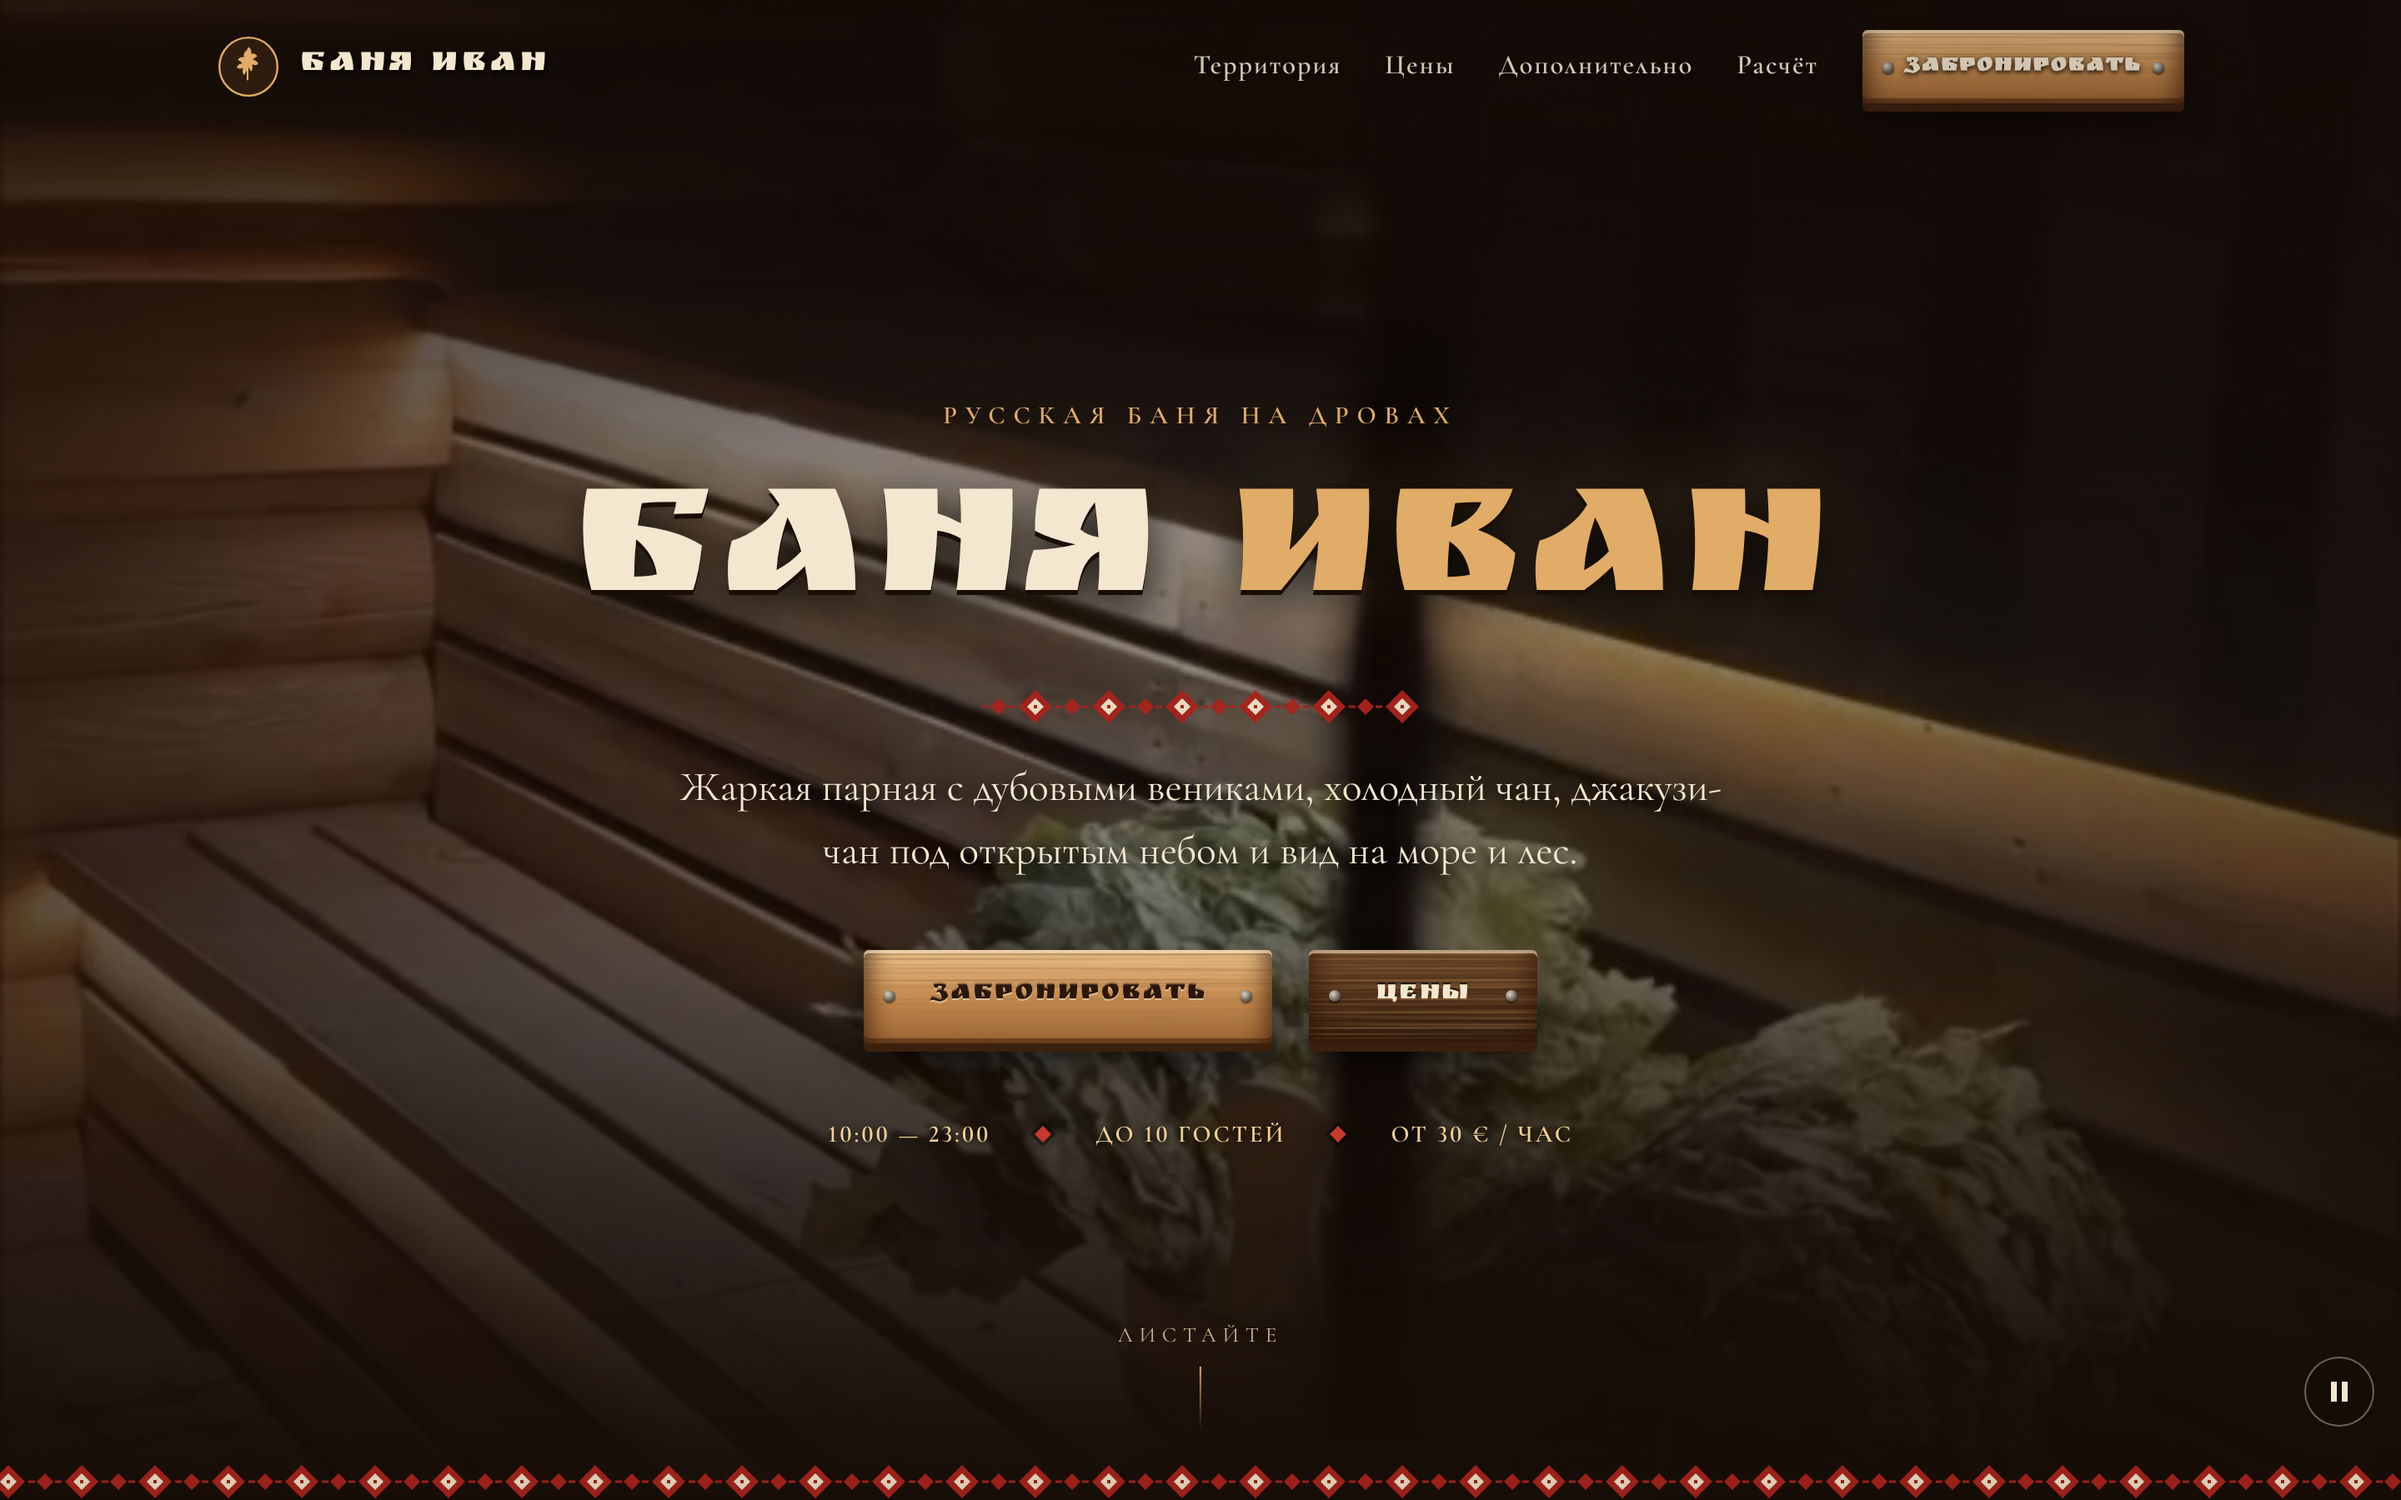
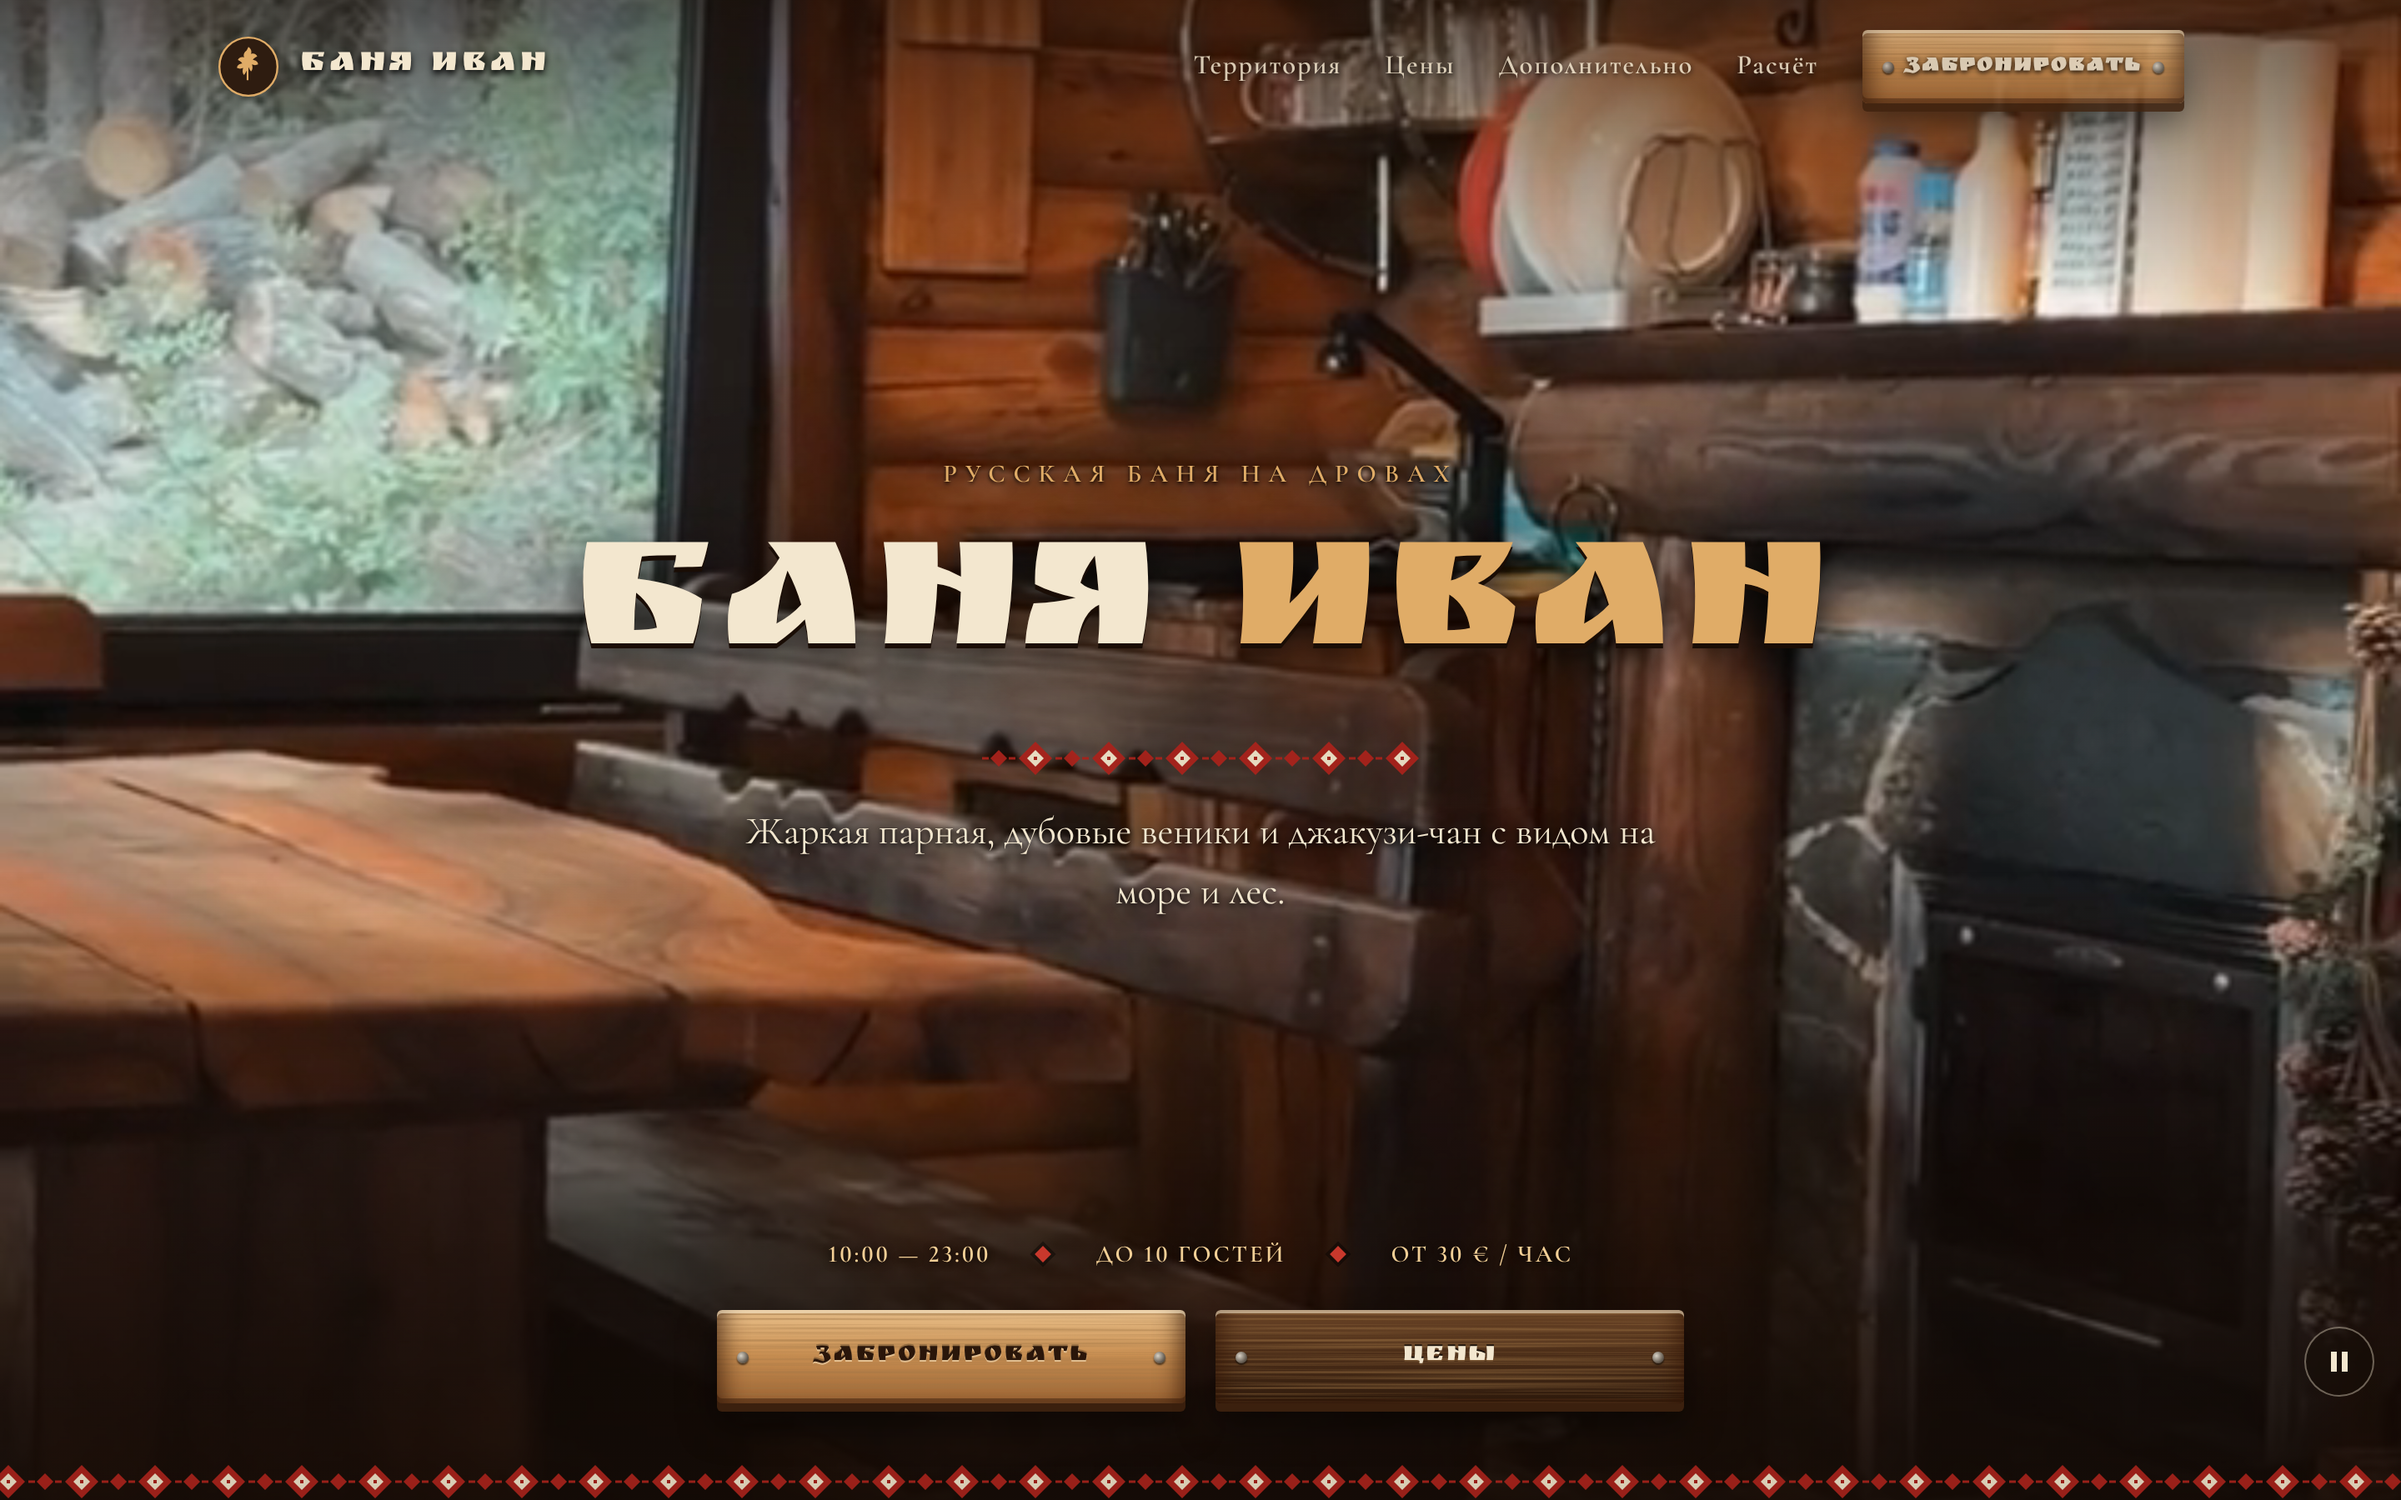
Баня Иван: чистый hero с кнопками внизу, фон из реалистичных брёвен
- hero: убрано сплошное затемнение, видео видно; кнопки в ряд внизу экрана
- фон: фототекстура сруба (Poly Haven beam_wall_01, CC0), перекрашена под морёную сосну

Claude-Session: https://claude.ai/code/session_01TmLsjznAwSWef89Pa8qZjW

diff --git a/banya-ivan/index.html b/banya-ivan/index.html
@@ -38,6 +38,10 @@
 *{box-sizing:border-box}
 html{scroll-behavior:smooth;-webkit-text-size-adjust:100%}
 @media (prefers-reduced-motion:reduce){html{scroll-behavior:auto}}
+@media (max-width:640px){body{background-size:auto,560px auto}}
+/* мягкий тёплый свет от печи по краям секций */
+.section::before{content:"";position:absolute;inset:0;z-index:-1;pointer-events:none;background:radial-gradient(ellipse 70% 55% at 50% 45%,rgba(255,160,80,.07),transparent 70%),linear-gradient(90deg,rgba(0,0,0,.35),transparent 18%,transparent 82%,rgba(0,0,0,.35))}
+.section{isolation:isolate}
 body{
   margin:0;
   font-family:"Cormorant Garamond",Georgia,serif;
@@ -45,18 +49,12 @@ body{
   line-height:1.55;
   color:var(--ink);
   background-color:var(--wood-1);
-  /* сруб: горизонтальные брёвна */
+  /* сруб: фототекстура beam_wall_01 (Poly Haven, CC0), перекрашена под морёную сосну */
   background-image:
-    var(--grain),
-    repeating-linear-gradient(180deg,
-      rgba(0,0,0,.55) 0 3px,
-      rgba(255,200,140,.05) 3px 6px,
-      rgba(0,0,0,0) 6px 60px,
-      rgba(0,0,0,.18) 60px 132px,
-      rgba(0,0,0,.35) 132px 140px),
-    linear-gradient(180deg,var(--wood-1),var(--wood-2) 40%,var(--wood-1));
-  background-size:700px 220px,100% 140px,100% 100%;
-  background-attachment:scroll;
+    linear-gradient(180deg,rgba(14,8,4,.5),rgba(14,8,4,.5)),
+    url("assets/logs.jpg");
+  background-size:auto,800px auto;
+  background-repeat:repeat;
   overflow-x:hidden;
   font-variant-numeric:lining-nums;
 }
@@ -126,29 +124,31 @@ h1,h2,h3{margin:0;line-height:1.1}
 @media (max-width:860px){.nav a:not(.brus){display:none}.topbar .brus{padding:10px 22px;min-height:42px;font-size:.85rem}}
 
 /* ---------- hero ---------- */
-.hero{position:relative;min-height:100svh;display:grid;place-items:center;overflow:hidden;isolation:isolate}
+.hero{position:relative;min-height:100svh;display:flex;flex-direction:column;overflow:hidden;isolation:isolate}
 .hero video,.hero .poster{position:absolute;inset:0;width:100%;height:100%;object-fit:cover;z-index:-3}
 .hero::before{content:"";position:absolute;inset:0;z-index:-2;
   background:
-    radial-gradient(ellipse 70% 60% at 50% 50%,rgba(20,11,6,.25),rgba(20,11,6,.78) 100%),
-    linear-gradient(180deg,rgba(20,11,6,.55) 0%,rgba(20,11,6,.1) 30%,rgba(20,11,6,.2) 65%,var(--wood-1) 100%)}
+    radial-gradient(ellipse 55% 28% at 50% 44%,rgba(20,11,6,.45),transparent 75%),
+    linear-gradient(180deg,rgba(20,11,6,.6) 0%,rgba(20,11,6,0) 20%,rgba(20,11,6,0) 58%,rgba(20,11,6,.6) 84%,rgba(20,11,6,.92) 100%)}
 /* резные наличники по бокам */
 .hero::after{content:"";position:absolute;inset:auto 0 0 0;height:22px;z-index:-1;background:var(--ornament) center/44px 22px repeat-x;opacity:.9}
-.hero-inner{text-align:center;padding:120px 16px 90px;max-width:900px}
+.hero-inner{flex:1;display:flex;flex-direction:column;justify-content:center;align-items:center;text-align:center;padding:110px 16px 24px;max-width:900px;margin:0 auto}
+.hero-inner .ornament.short{margin-top:14px}
+.hero-bottom{position:relative;padding:0 16px 58px;display:flex;flex-direction:column;align-items:center;gap:22px}
 .hero h1{font-family:"Ruslan Display",serif;font-weight:400;font-size:clamp(3.2rem,11vw,7.6rem);line-height:.95;color:var(--ink);
-  text-shadow:0 3px 0 #1a0d05,0 8px 30px rgba(0,0,0,.8),0 0 60px rgba(224,172,103,.25);margin:18px 0 8px}
+  text-shadow:0 3px 0 #1a0d05,0 6px 24px rgba(0,0,0,.75);margin:14px 0 4px}
+.hero .kicker{text-shadow:0 1px 2px #000,0 1px 10px rgba(0,0,0,.95)}
+@media (max-width:640px){.hero::before{background:radial-gradient(ellipse 95% 30% at 50% 50%,rgba(20,11,6,.55),transparent 75%),linear-gradient(180deg,rgba(20,11,6,.6) 0%,rgba(20,11,6,0) 18%,rgba(20,11,6,0) 60%,rgba(20,11,6,.65) 84%,rgba(20,11,6,.92) 100%)}}
 .hero h1 em{font-style:normal;color:var(--honey)}
-.hero .lead{font-size:clamp(1.2rem,2.6vw,1.55rem);max-width:640px;margin:18px auto 0;color:var(--ink);text-shadow:0 2px 8px #000}
-.hero .actions{display:flex;flex-wrap:wrap;justify-content:center;gap:22px;margin-top:40px}
-.hero-facts{display:flex;flex-wrap:wrap;justify-content:center;gap:10px 28px;margin-top:44px;font-weight:600;letter-spacing:.1em;text-transform:uppercase;font-size:.9rem;color:var(--honey-2);text-shadow:0 1px 4px #000}
+.hero .lead{font-size:clamp(1.15rem,2.4vw,1.45rem);max-width:560px;margin:16px auto 0;color:var(--ink);text-shadow:0 1px 3px #000,0 2px 14px rgba(0,0,0,.85)}
+.hero .actions{display:grid;grid-template-columns:1fr 1fr;gap:18px;width:min(580px,100%)}
+.hero .actions .brus{width:100%;padding-inline:26px}
+.hero-facts{display:flex;flex-wrap:wrap;justify-content:center;gap:10px 28px;font-weight:600;letter-spacing:.1em;text-transform:uppercase;font-size:.9rem;color:var(--honey-2);text-shadow:0 1px 4px #000}
 .hero-facts span{display:flex;align-items:center;gap:10px}
 .hero-facts span+span::before{content:"";width:7px;height:7px;background:var(--red-2);transform:rotate(45deg);margin-right:18px;box-shadow:0 0 0 2px rgba(0,0,0,.4)}
-.scroll-cue{position:absolute;bottom:42px;left:50%;translate:-50% 0;color:var(--ink-dim);font-size:.8rem;letter-spacing:.3em;text-transform:uppercase;text-decoration:none;display:flex;flex-direction:column;align-items:center;gap:8px}
-.scroll-cue i{width:1px;height:38px;background:linear-gradient(var(--honey),transparent);animation:cue 2s ease-in-out infinite}
-@keyframes cue{0%,100%{transform:scaleY(.4);transform-origin:top}50%{transform:scaleY(1);transform-origin:top}}
-.video-toggle{position:absolute;right:16px;bottom:44px;width:42px;height:42px;border-radius:50%;border:1px solid rgba(243,231,207,.4);background:rgba(20,11,6,.5);color:var(--ink);cursor:pointer;display:grid;place-items:center}
+.video-toggle{position:absolute;right:16px;bottom:62px;width:42px;height:42px;border-radius:50%;border:1px solid rgba(243,231,207,.4);background:rgba(20,11,6,.5);color:var(--ink);cursor:pointer;display:grid;place-items:center}
 .video-toggle:focus-visible{outline:2px solid var(--honey);outline-offset:3px}
-@media (max-width:640px){.scroll-cue{display:none}.hero .brus{width:100%;max-width:340px}.hero-facts{flex-direction:column;gap:8px}.hero-facts span+span::before{display:none}.logo span{font-size:1.1rem}.logo svg{width:32px;height:32px}}
+@media (max-width:640px){.hero .actions{gap:12px}.hero .actions .brus{font-size:.78rem;padding:14px 18px;min-height:54px;letter-spacing:.03em}.hero .actions .brus::before{left:7px}.hero .actions .brus::after{right:7px}.hero-bottom{padding-bottom:46px;gap:18px}.hero-facts{gap:6px 16px;font-size:.8rem}.hero-facts span+span::before{display:none}.video-toggle{bottom:auto;top:80px;width:38px;height:38px}.logo span{font-size:1.1rem}.logo svg{width:32px;height:32px}}
 
 /* ---------- доски-карточки ---------- */
 .plank{
@@ -322,7 +322,7 @@ footer .logo{justify-content:center;margin-bottom:10px}
 /* появление */
 .reveal{opacity:0;transform:translateY(28px);transition:opacity .9s ease,transform .9s cubic-bezier(.2,.7,.2,1)}
 .reveal.in{opacity:1;transform:none}
-@media (prefers-reduced-motion:reduce){.reveal{opacity:1;transform:none;transition:none}.zone .ph img{transition:none}.scroll-cue i{animation:none}}
+@media (prefers-reduced-motion:reduce){.reveal{opacity:1;transform:none;transition:none}.zone .ph img{transition:none}}
 .sr-only{position:absolute;width:1px;height:1px;overflow:hidden;clip:rect(0 0 0 0);white-space:nowrap}
 </style>
 </head>
@@ -360,18 +360,19 @@ footer .logo{justify-content:center;margin-bottom:10px}
     <div class="kicker">Русская баня на дровах</div>
     <h1>Баня <em>Иван</em></h1>
     <div class="ornament short" aria-hidden="true"></div>
-    <p class="lead">Жаркая парная с дубовыми вениками, холодный чан, джакузи-чан под открытым небом и вид на море и лес.</p>
-    <div class="actions">
-      <a class="brus" href="#calc">Забронировать</a>
-      <a class="brus dark" href="#prices">Цены</a>
-    </div>
+    <p class="lead">Жаркая парная, дубовые веники и джакузи-чан с видом на море и лес.</p>
+  </div>
+  <div class="hero-bottom">
     <div class="hero-facts">
       <span>10:00 — 23:00</span>
       <span>до 10 гостей</span>
       <span>от 30 € / час</span>
     </div>
+    <div class="actions">
+      <a class="brus" href="#calc">Забронировать</a>
+      <a class="brus dark" href="#prices">Цены</a>
+    </div>
   </div>
-  <a class="scroll-cue" href="#zones">Листайте<i></i></a>
   <button class="video-toggle" id="videoToggle" type="button" aria-label="Поставить видео на паузу">
     <svg width="16" height="16" viewBox="0 0 16 16" aria-hidden="true"><rect x="3" y="2" width="3.5" height="12" fill="currentColor"/><rect x="9.5" y="2" width="3.5" height="12" fill="currentColor"/></svg>
   </button>
